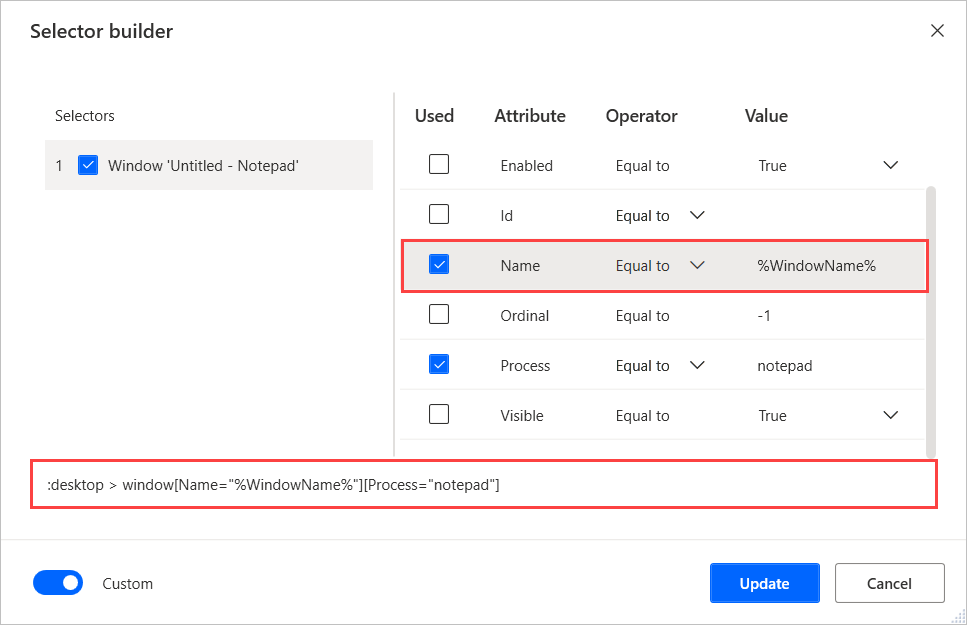
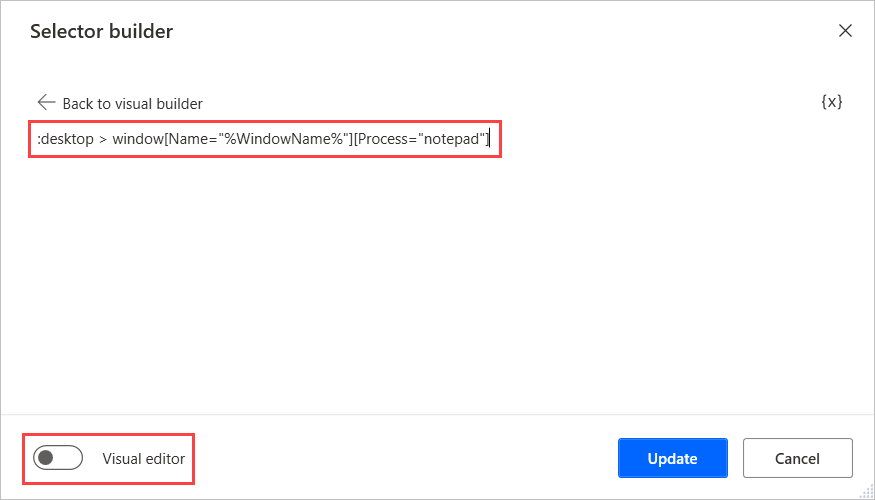
Corrections in the "Use variables in a custom selector" section

diff --git a/articles/desktop-flows/how-to/build-custom-selectors.md b/articles/desktop-flows/how-to/build-custom-selectors.md
@@ -69,7 +69,7 @@ Apart from various operators, Power Automate Desktop enables you to create dynam
 
 If the value of a selector's attribute depends on calculations and results of previous actions, you can replace the hard-coded value with a variable.
 
-To use a variable in a selector, populate its name in the appropriate attribute enclosed by percentage signs (**%**). You can find more information about the percentage notation in [Use variables and the % notation](https://review.docs.microsoft.com/power-automate/desktop-flows/variable-manipulation?branch=pad-how-to-phase1).
+To use a variable in a selector, launch the **Custom selector builder** and populate the variable's name enclosed by percentage signs (**%**). You can find more information about the percentage notation in [Use variables and the % notation](https://review.docs.microsoft.com/power-automate/desktop-flows/variable-manipulation?branch=pad-how-to-phase1).
 
 If you use a variable in the **Name** attribute of the Notepad example, the selector will be **:desktop > window[Name="%WindowName%"][Process="notepad"]**.
 
